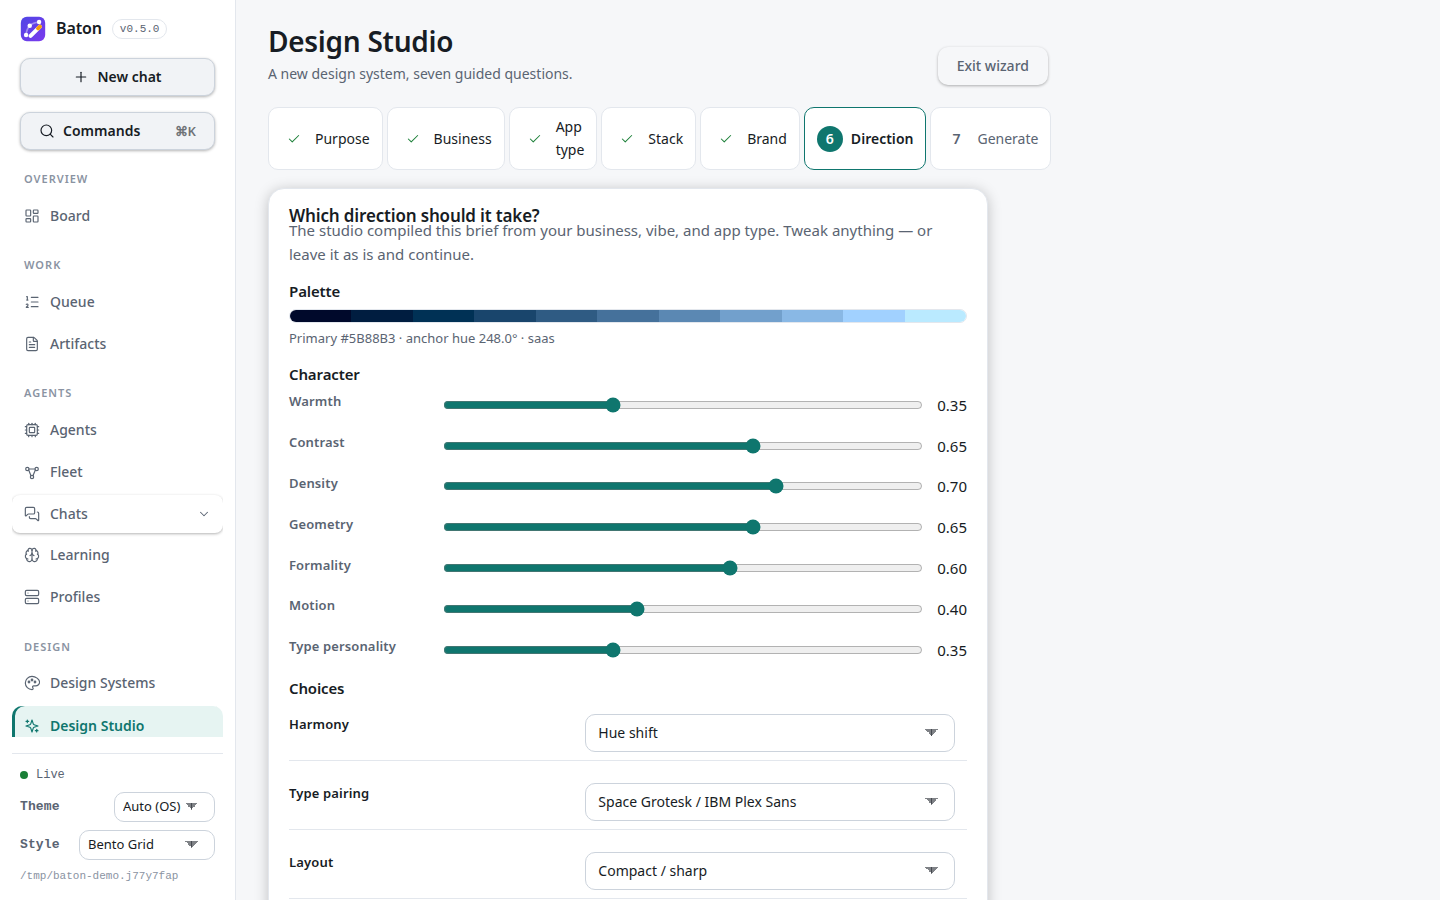
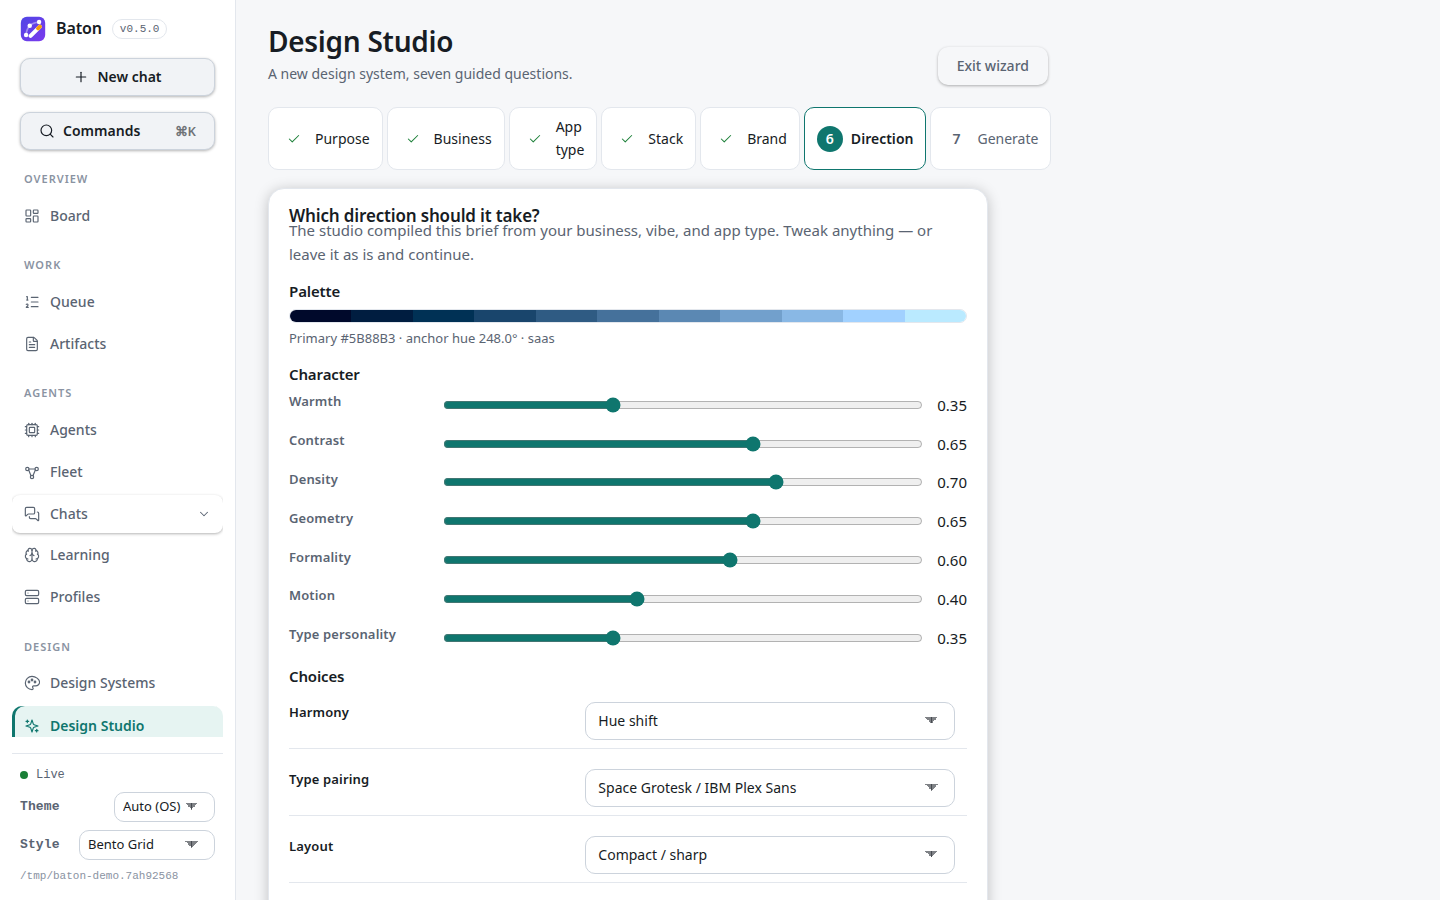
Fix showcase mobile overflow (#317) and direction-step gap drift (#318)
Showcase (#317): collapse the topbar nav at <=720px (brand + 5 links +
theme toggle measured ~640px wide, overflowing a 390px viewport) and
clamp() the type-specimen sizes so the token size stays the desktop
ceiling while mobile caps it; wrap demo-nav/card-actions and break long
specimen words. Verified in headless Chromium: 390px scrollWidth ==
innerWidth == 390, nothing cut off; 1440px unchanged.

Direction step (#318): the step used a literal 0.875rem grid gap while
the shared .form-grid uses var(--s3) (12px), and the comment claimed
0.875rem was the product standard. Use the shared var(--s3) for both
direction grids, fix the comment, and align .field-actions with the
0.5rem (var(--s2)) action-row standard. Regenerated
design-studio-direction.png; all other screenshots pixel-checked and
restored (regeneration noise only).

diff --git a/src/jev_agent/dashboard/static/style.css b/src/jev_agent/dashboard/static/style.css
@@ -1256,7 +1256,7 @@ details.panel[open] > summary { margin-bottom: var(--s3); }
 }
 .field-row > label .hint { margin: 0; font-weight: 400; }
 .field-control textarea { min-height: 56px; }
-.field-actions { display: flex; gap: var(--s1); align-items: center; justify-content: flex-end; }
+.field-actions { display: flex; gap: var(--s2); align-items: center; justify-content: flex-end; }
 .field-actions select { width: auto; }
 .weights { display: grid; grid-template-columns: repeat(auto-fit, minmax(120px, 1fr)); gap: var(--s2); }
 .weights .check { flex-direction: row-reverse; justify-content: flex-end; }
@@ -1673,7 +1673,8 @@ button.studio-card {
    of swatches (data-swatch-color, like the landing previews), the seven
    axes as sliders (the settings .slider-row pattern), the named choices as
    selects in the wizard's .field-row shape, and the editable avoid-list.
-   Form grids use the 0.875rem gap the rest of the product's forms use. */
+   Form grids use the shared form-grid gap, var(--s3) (12px) — the same
+   gap .form-grid uses everywhere else in the product. */
 .direction-section { margin: var(--s4) 0 0; }
 .direction-section > h3 { margin: 0 0 var(--s2); font-size: var(--text-md); }
 .direction-ramp {
@@ -1684,9 +1685,9 @@ button.studio-card {
   border: 1px solid var(--border);
 }
 .direction-ramp span { flex: 1; }
-.direction-axes { display: grid; gap: 0.875rem; }
+.direction-axes { display: grid; gap: var(--s3); }
 .direction-axes .slider-row label { min-width: 140px; font-weight: 600; }
-.direction-choices { display: grid; gap: 0.875rem; }
+.direction-choices { display: grid; gap: var(--s3); }
 @media (max-width: 640px) {
   .direction-axes .slider-row label { min-width: 104px; }
 }

diff --git a/src/jev_agent/core/design_showcase_html.py b/src/jev_agent/core/design_showcase_html.py
@@ -610,52 +610,52 @@ body{
   color:var(--c-text-muted);
   margin-top:4px;
 }
-.type-sample{line-height:1.2}
+.type-sample{line-height:1.2;overflow-wrap:break-word}
 .type-display-xl {
   font-family:var(--font-display);
-  font-size:var(--tw-display-xl-size,76px);
+  font-size:clamp(40px,11vw,var(--tw-display-xl-size,76px));
   font-weight:var(--tw-display-xl-weight,700);
   letter-spacing:var(--tw-display-xl-tracking,-0.025em);
   line-height:var(--tw-display-xl-leading,1.02);
 }
 .type-display-lg {
   font-family:var(--font-display);
-  font-size:var(--tw-display-lg-size,60px);
+  font-size:clamp(34px,9vw,var(--tw-display-lg-size,60px));
   font-weight:var(--tw-display-lg-weight,700);
   letter-spacing:var(--tw-display-lg-tracking,-0.025em);
   line-height:var(--tw-display-lg-leading,1.05);
 }
 .type-display-md {
   font-family:var(--font-display);
-  font-size:var(--tw-display-md-size,48px);
+  font-size:clamp(30px,8vw,var(--tw-display-md-size,48px));
   font-weight:var(--tw-display-md-weight,700);
   letter-spacing:var(--tw-display-md-tracking,-0.025em);
   line-height:var(--tw-display-md-leading,1.08);
 }
 .type-display-sm {
   font-family:var(--font-display);
-  font-size:var(--tw-display-sm-size,36px);
+  font-size:clamp(26px,7vw,var(--tw-display-sm-size,36px));
   font-weight:var(--tw-display-sm-weight,700);
   letter-spacing:var(--tw-display-sm-tracking,-0.025em);
   line-height:var(--tw-display-sm-leading,1.1);
 }
 .type-headline-lg {
   font-family:var(--font-display);
-  font-size:var(--tw-headline-lg-size,28px);
+  font-size:clamp(22px,6vw,var(--tw-headline-lg-size,28px));
   font-weight:var(--tw-headline-lg-weight,650);
   letter-spacing:var(--tw-headline-lg-tracking,-0.01em);
   line-height:var(--tw-headline-lg-leading,1.2);
 }
 .type-headline-md {
   font-family:var(--font-display);
-  font-size:var(--tw-headline-md-size,22px);
+  font-size:clamp(20px,5.5vw,var(--tw-headline-md-size,22px));
   font-weight:var(--tw-headline-md-weight,600);
   letter-spacing:var(--tw-headline-md-tracking,-0.008em);
   line-height:var(--tw-headline-md-leading,1.25);
 }
 .type-headline-sm {
   font-family:var(--font-display);
-  font-size:var(--tw-headline-sm-size,18px);
+  font-size:clamp(16px,5vw,var(--tw-headline-sm-size,18px));
   font-weight:var(--tw-headline-sm-weight,600);
   letter-spacing:var(--tw-headline-sm-tracking,-0.005em);
   line-height:var(--tw-headline-sm-leading,1.3);
@@ -875,6 +875,15 @@ body{
   .type-row{grid-template-columns:1fr;gap:8px}
   .hero-split{grid-template-columns:1fr}
   .wrap,.topbar-inner{padding-left:20px;padding-right:20px}
+  /* The brand + 5 nav links + theme toggle measure ~640px wide, so the
+     page overflows a 390px viewport (issue #317). Below 720px the section
+     nav collapses away — the page is single-column and every section is
+     one scroll away — leaving brand + toggle, which fit. */
+  .topbar-inner{gap:16px}
+  .topbar-brand{min-width:0;overflow-wrap:anywhere}
+  .topbar nav{display:none}
+  .demo-nav{flex-wrap:wrap}
+  .card-actions{flex-wrap:wrap}
 }
 """
 

diff --git a/tests/unit/test_design_studio_quality.py b/tests/unit/test_design_studio_quality.py
@@ -136,6 +136,32 @@ def test_render_showcase_theme_toggle_only_when_both() -> None:
     assert 'id="themeToggle"' not in light
 
 
+def test_render_showcase_fits_390px_viewport() -> None:
+    """Issue #317: the generated showcase laid out ~640px wide at 390px.
+
+    The topbar (brand + 5 nav links + theme toggle) never collapsed and the
+    type specimens used fixed sizes, so the page overflowed horizontally.
+    The nav must collapse at <=720px and every specimen size must be a
+    clamp() whose ceiling is the design token, so desktop keeps the token
+    size while mobile caps it.
+    """
+    profile = vibe_for_keywords("playful")
+    html = render_showcase("audit-shots", profile, _rich(), "both")
+    assert "@media(max-width:720px)" in html
+    assert ".topbar nav{display:none}" in html
+    for size, clamp in (
+        ("display-xl", "clamp(40px,11vw,var(--tw-display-xl-size,76px))"),
+        ("display-lg", "clamp(34px,9vw,var(--tw-display-lg-size,60px))"),
+        ("display-md", "clamp(30px,8vw,var(--tw-display-md-size,48px))"),
+        ("display-sm", "clamp(26px,7vw,var(--tw-display-sm-size,36px))"),
+        ("headline-lg", "clamp(22px,6vw,var(--tw-headline-lg-size,28px))"),
+        ("headline-md", "clamp(20px,5.5vw,var(--tw-headline-md-size,22px))"),
+        ("headline-sm", "clamp(16px,5vw,var(--tw-headline-sm-size,18px))"),
+    ):
+        assert clamp in html, size
+        assert f"font-size:var(--tw-{size}-size," not in html, size
+
+
 # ---------------------------------------------------------------------------
 # Codegen
 # ---------------------------------------------------------------------------

diff --git a/tests/unit/test_issue224_minors.py b/tests/unit/test_issue224_minors.py
@@ -263,15 +263,16 @@ def test_showcase_type_scale_comes_from_tokens() -> None:
     assert "--tw-display-xl-tracking: -0.04em;" in html
     assert "--tw-display-xl-leading: 1.0;" in html
     assert "--tw-body-md-size: 18px;" in html
-    # The specimen rules read the variables (with the old sizes as fallbacks).
-    assert "font-size:var(--tw-display-xl-size,76px);" in html
+    # The specimen rules read the variables (with the old sizes as fallbacks),
+    # capped by a clamp() so they fit a 390px viewport (issue #317).
+    assert "font-size:clamp(40px,11vw,var(--tw-display-xl-size,76px));" in html
     assert "font-size:var(--tw-body-md-size,15px);" in html
 
 
 def test_showcase_flat_tokens_keep_the_old_sizes() -> None:
     html = render_showcase("Demo", VIBE_PROFILES["minimal"], {"colors": {}}, "light")
     assert "--tw-display-xl-size:" not in html
-    assert "font-size:var(--tw-display-xl-size,76px);" in html
+    assert "font-size:clamp(40px,11vw,var(--tw-display-xl-size,76px));" in html
 
 
 # ---- 5. core/cache.py: no empty Bearer header ---------------------------------------

diff --git a/tests/unit/test_dashboard_design_studio.py b/tests/unit/test_dashboard_design_studio.py
@@ -708,6 +708,18 @@ def test_direction_rejects_bad_values() -> None:
         validate_step("direction", {"scene": "not-a-scene"}, state)
 
 
+def test_direction_step_uses_shared_form_grid_gap(client: TestClient) -> None:
+    """Issue #318: the direction step used a literal 0.875rem grid gap while
+    the shared .form-grid uses var(--s3) (12px), and the comment claimed
+    0.875rem was the product standard. One gap, the shared one; and
+    .field-actions matches the 0.5rem (var(--s2)) action-row standard."""
+    css = client.get("/static/style.css").text
+    assert ".direction-axes { display: grid; gap: var(--s3); }" in css
+    assert ".direction-choices { display: grid; gap: var(--s3); }" in css
+    assert "0.875rem" not in css
+    assert ".field-actions { display: flex; gap: var(--s2);" in css
+
+
 def test_direction_page_renders_and_advances(client: TestClient, home: Path) -> None:
     _post(client, "/design-studio/new/purpose", {"product": "Acme Analytics"})
     _post(
